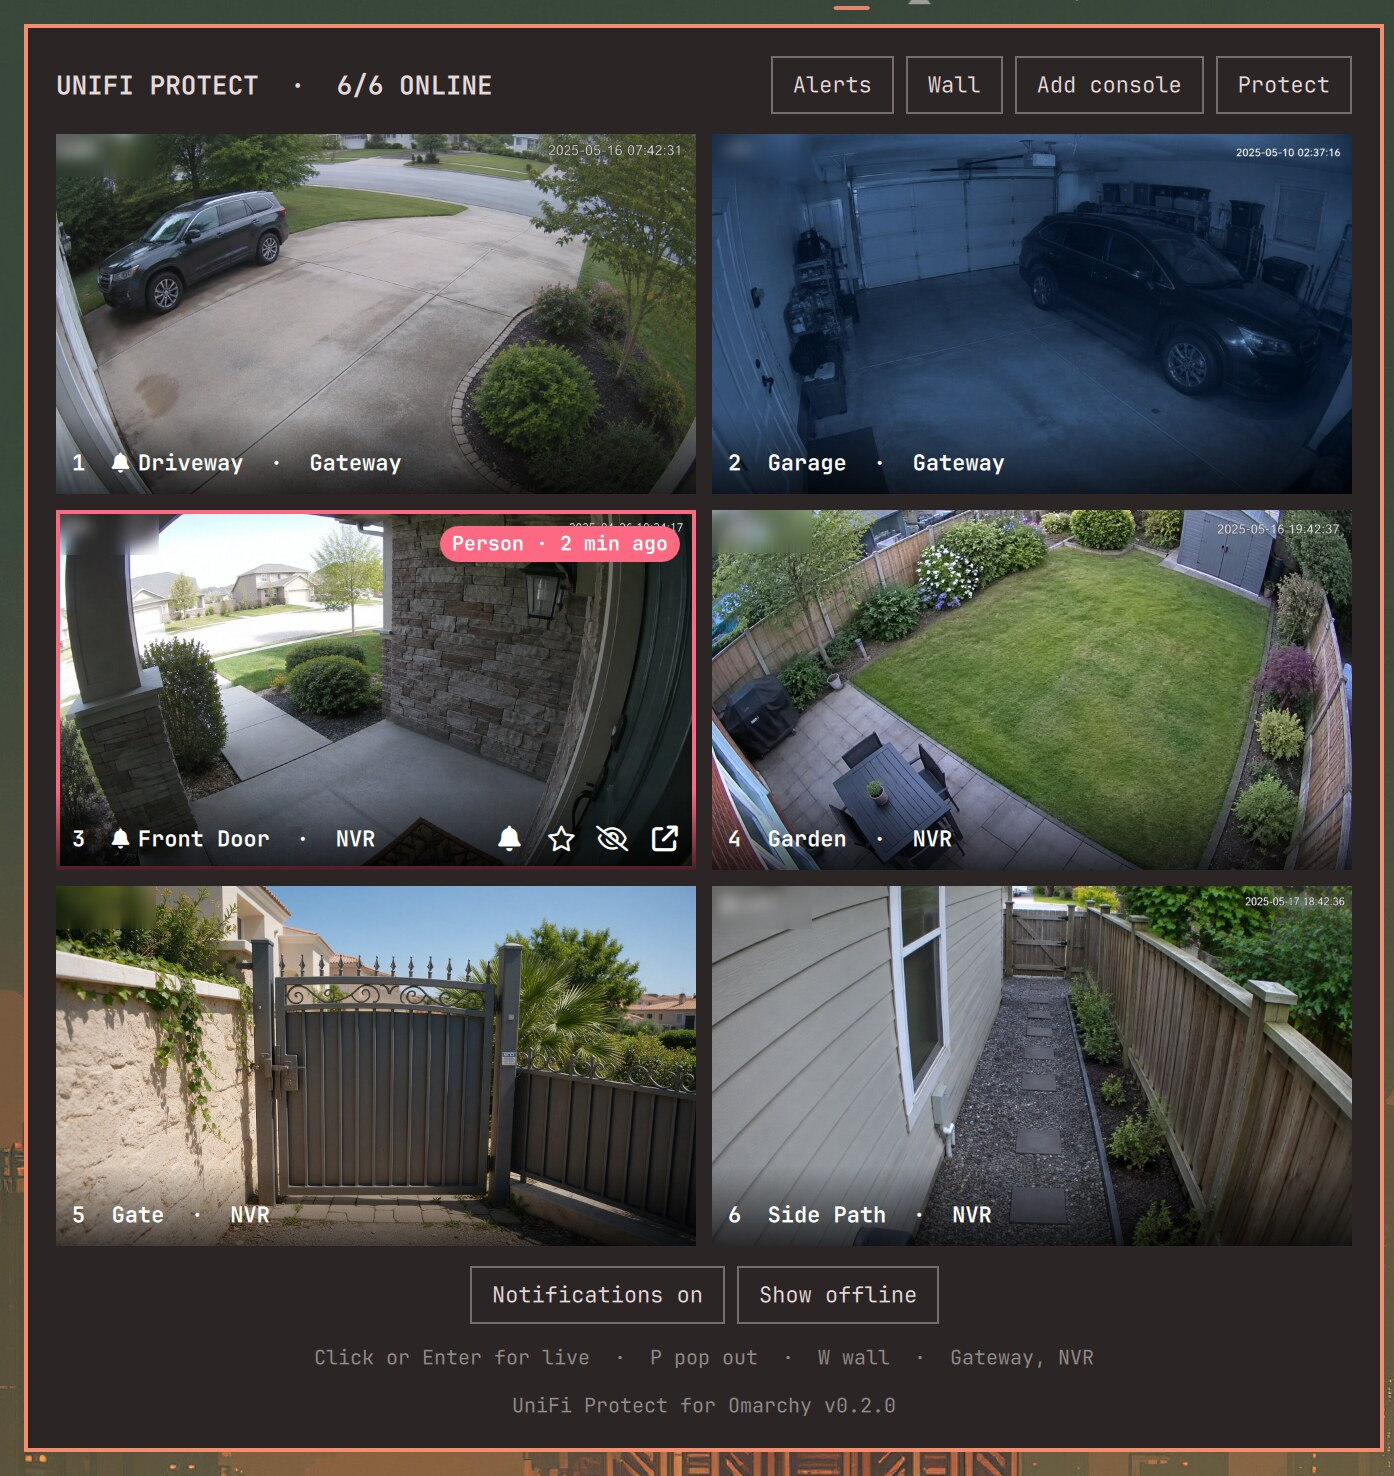
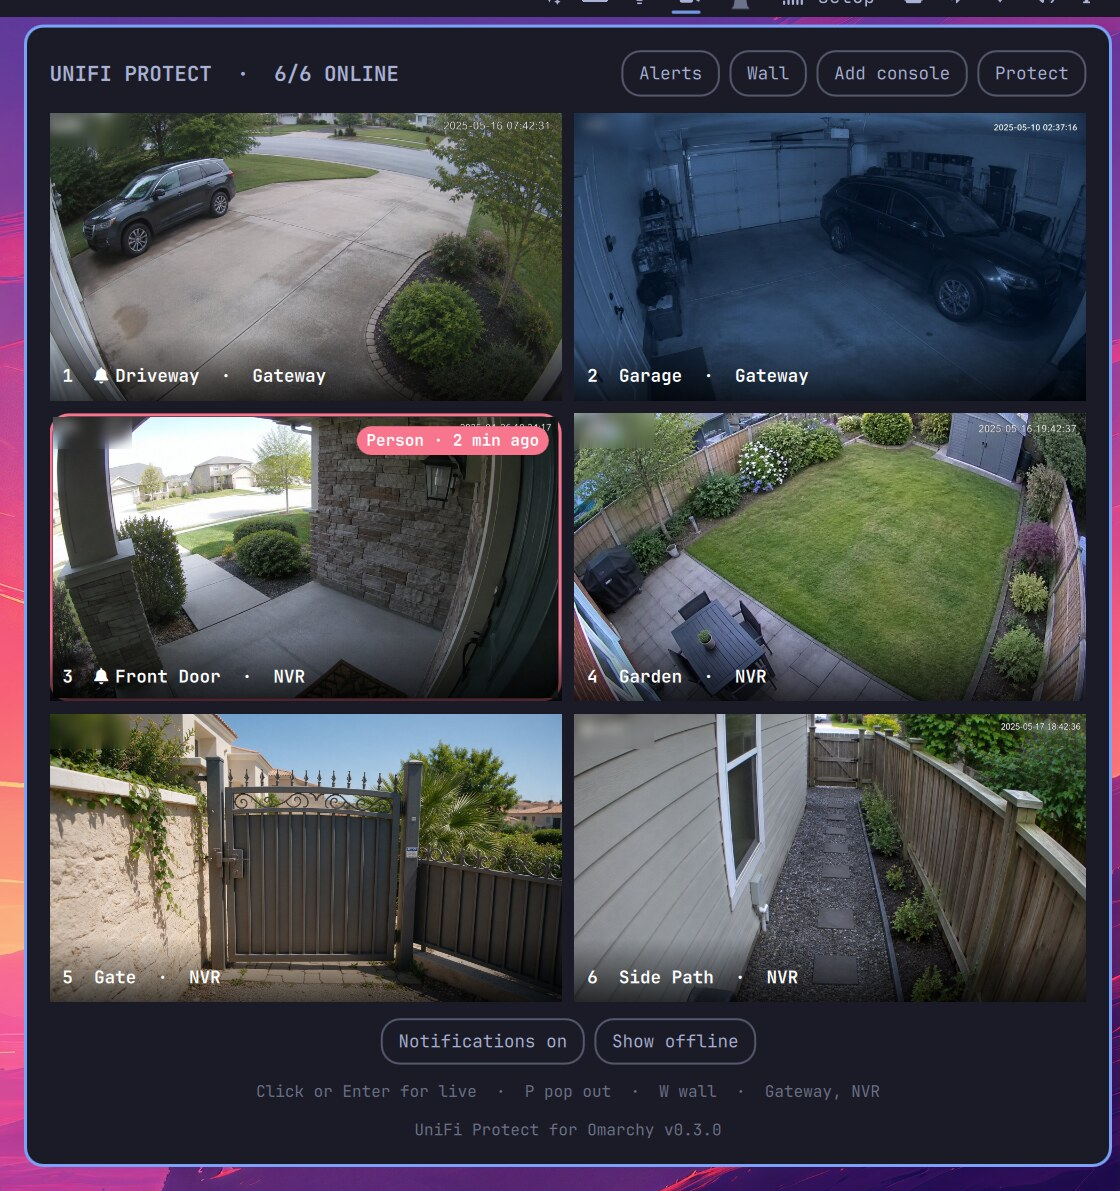
README: recordings screenshot, sound and recordings details
- New recordings screenshot next to the live view; every screenshot
  retaken on the current UI
- Sound covers recordings and the default output; files table, removal
  steps and disclaimer cover the recordings login
- uninstall.sh --purge also clears recordings passwords from the keyring
- tools/screenshots.sh takes a workspace and restores which alerts were
  seen

diff --git a/README.md b/README.md
@@ -1,8 +1,8 @@
 # UniFi Protect for Omarchy
 
 Your UniFi Protect cameras in the Omarchy bar: a grid of auto-refreshing
-snapshots, live video right in the panel, a camera wall with every camera
-live at once, and a pop-out player. Works with several consoles at once, such
+snapshots, live video with sound right in the panel, a camera wall with every
+camera live at once, and a pop-out player. Works with several consoles at once, such
 as a gateway and a dedicated NVR, and is set up from the panel itself. Arm a
 camera to be alerted when it sees a person, a vehicle or a doorbell ring,
 and play back what each camera recorded. Video travels encrypted, and API
@@ -28,7 +28,9 @@ Version 0.3.0 · [Changelog](CHANGELOG.md) · MIT licensed · by ELD Technologie
 |---|---|
 | ![The panel: a grid of six camera snapshots, an alert badge on Front Door, and armed cameras marked with a bell](docs/screenshots/panel-grid.jpg) | ![The alert log: what was seen, where, when and for how long, each with a snapshot](docs/screenshots/panel-alerts.png) |
 
-![Live view of the Front Door camera in the panel](docs/screenshots/panel-live.jpg)
+| Live view | Recordings |
+|---|---|
+| ![Live view of the Front Door camera in the panel](docs/screenshots/panel-live.jpg) | ![Recordings of the Front Door camera: a doorbell ring playing back with a REC badge and a seek bar, above a list of detections with thumbnails](docs/screenshots/panel-recordings.jpg) |
 
 *The camera pictures in these screenshots are AI-generated for demo purposes; they show no real place or person. The screenshots themselves are of the real plugin, running in [demo mode](#developing).*
 
@@ -41,7 +43,10 @@ Version 0.3.0 · [Changelog](CHANGELOG.md) · MIT licensed · by ELD Technologie
 - `secret-tool` from `libsecret` and a keyring such as `gnome-keyring` (both
   ship with Omarchy) to keep API keys in the keyring; optional, see below
 - `qt6-multimedia-ffmpeg` for live video (ships with Omarchy)
-- `mpv`, optional, for the pop-out player: `omarchy pkg add mpv`
+- `mpv`, optional, for the pop-out player and recorded clips in their own
+  window: `omarchy pkg add mpv`
+- For [recordings](#recordings), optional: a local UniFi account on each
+  console that records
 - `notify-send` from `libnotify` for alert notifications (ships with Omarchy)
 
 ## Install
@@ -131,7 +136,9 @@ eld-unifi-protect remove nvr
 ### Sound
 
 Sound plays whenever exactly one camera is on screen: the panel's live view,
-an enlarged camera on the wall, and the pop-out player. The grid and the
+a recording playing back, an enlarged camera on the wall, and the pop-out
+player. It goes to your system's default output and follows it, so
+headphones connected after login are picked up. The grid and the
 wall's tiles are always silent (they don't even decode audio). `M` mutes;
 the choice carries over while you flip between cameras, and opening a camera
 from the grid again starts with sound. Set `sound` to `false` to start
@@ -315,11 +322,11 @@ The plugin's own files:
 
 | Path | Contents |
 |------|----------|
-| Desktop keyring (Secret Service) | API keys, when a keyring is available |
-| `~/.config/eld-unifi-protect/config.json` | Consoles and pinned certificates; API keys only if there is no keyring (mode 0600) |
+| Desktop keyring (Secret Service) | API keys and recordings passwords, when a keyring is available |
+| `~/.config/eld-unifi-protect/config.json` | Consoles, pinned certificates and recordings usernames; API keys and passwords only if there is no keyring (mode 0600) |
 | `~/.config/eld-unifi-protect/cameras.json` | Hidden cameras, favourite, armed cameras, read-only setting (no secrets) |
 | `~/.local/state/eld-unifi-protect/state.json` | Last camera list |
-| `$XDG_RUNTIME_DIR/eld-unifi-protect/` | Snapshots, stream URLs, recent alerts and their notification pictures (tmpfs, gone on reboot) |
+| `$XDG_RUNTIME_DIR/eld-unifi-protect/` | Snapshots, stream URLs, recent alerts and their notification pictures, recordings sessions, thumbnails and clips (tmpfs, gone on reboot) |
 
 ## How it works
 
@@ -402,18 +409,21 @@ If you installed with `omarchy plugin add`:
 omarchy plugin remove com.eldtechnologies.unifi-protect
 rm -rf ~/.config/eld-unifi-protect ~/.local/state/eld-unifi-protect
 secret-tool clear service eld-unifi-protect
+secret-tool clear service eld-unifi-protect-login
 ```
 
-`omarchy plugin remove` deletes only the plugin folder, so the last two lines
-are needed to delete your settings and API keys (the last one clears keys
-held in the keyring).
+`omarchy plugin remove` deletes only the plugin folder, so the last three
+lines are needed to delete your settings, API keys and recordings passwords
+(the `secret-tool` lines clear what is held in the keyring).
 
 If you installed with `./install.sh`, run `./uninstall.sh` from the checkout.
 It also removes the `eld-unifi-protect` command and asks whether to delete your
-API keys (`--purge` says yes, `--keep-config` says no).
+API keys and recordings passwords (`--purge` says yes, `--keep-config` says
+no).
 
-Either way, revoke the API keys on each console as well: deleting the local
-copy does not revoke them.
+Either way, revoke the API keys on each console as well, and delete the local
+recordings account if you made one: deleting the local copy does not revoke
+them.
 
 ## Developing
 
@@ -429,9 +439,9 @@ it from there. Record changes in `CHANGELOG.md`.
 **Demo mode** shows made-up consoles and cameras instead of yours, for
 screenshots, development, or trying the plugin without UniFi hardware:
 `eld-unifi-protect demo on` (and `demo off`). Your real config is never
-touched, and a reboot always ends it. `tools/screenshots.sh` captures the
-README screenshots from the real UI on demo data; see
-[docs/demo](docs/demo/README.md).
+touched, and a reboot always ends it. `tools/screenshots.sh [workspace]`
+captures the README screenshots from the real UI on demo data, on an empty
+workspace; see [docs/demo](docs/demo/README.md).
 
 Run the tests (standard library only; they never touch your real config,
 keys or consoles):
@@ -440,8 +450,8 @@ keys or consoles):
 python3 -m unittest discover -s tests -v
 ```
 
-They include an end-to-end test of the stream relay against a fake TLS
-console. CI runs them, plus a manifest check and `shellcheck`, on every pull
+They include end-to-end tests of the stream relay, and of the recordings
+sign-in and clip export, against a fake TLS console. CI runs them, plus a manifest check and `shellcheck`, on every pull
 request. To report a vulnerability, see [SECURITY.md](SECURITY.md).
 
 ## Disclaimer
@@ -453,12 +463,14 @@ use. See [LICENSE](LICENSE) for the full terms. In particular:
 - It is not a security or monitoring system. Do not rely on it to record,
   detect, or alert on anything; use UniFi Protect itself for that. Alerts
   are missed while your computer is asleep, off, or offline.
-- It stores console API keys on your machine (in your keyring, or in a file
-  readable only by you) and can enable RTSPS streams on your cameras (unless
+- It stores console API keys, and the recordings password if you use
+  recordings, on your machine (in your keyring, or in a file readable only by
+  you) and can enable RTSPS streams on your cameras (unless
   read-only mode is on). You are responsible for deciding whether that is
   acceptable for your network.
 - It uses UniFi Protect's Integration API, which Ubiquiti may change at any
-  time.
+  time. Recordings use the unpublished endpoints of Protect's own web app,
+  which may change without notice.
 
 UniFi, UniFi Protect and Ubiquiti are trademarks of Ubiquiti Inc. Omarchy
 belongs to its authors. These names are used here only to describe what this
